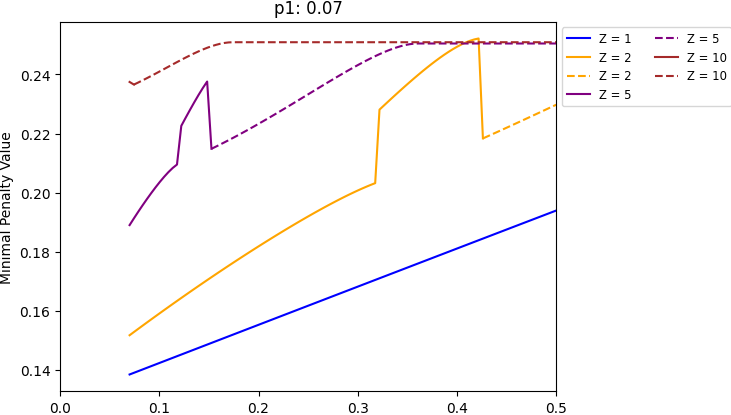
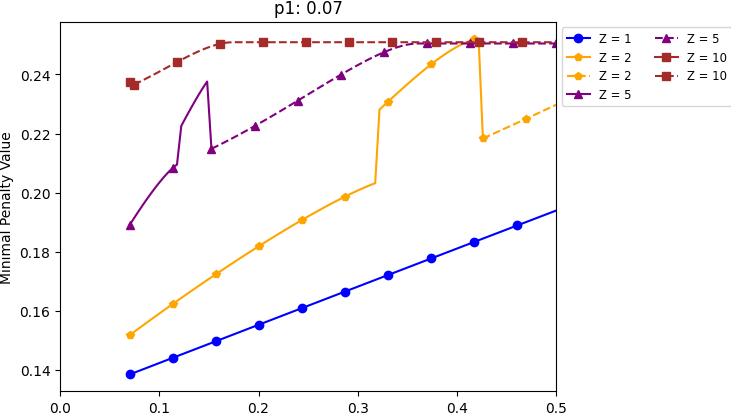
added markers

diff --git a/problem3.py b/problem3.py
@@ -1,3 +1,4 @@
+import matplotlib
 import numpy as np
 from scipy.optimize import minimize, Bounds, LinearConstraint
 import matplotlib.pyplot as plt
@@ -77,6 +78,7 @@ x_values = np.linspace(0.0, 0.5, len(p_list))
 
 #line_styles = ['-', '--', '-.', ':']
 line_colors = ['blue','orange','purple','brown']
+marker_styles = ['o', 'p', '^', 's'] 
 
 #x_values = np.arange(len(p_list)) bunu kullanma equally spaced sebep oluyor
 #file1 = open("results M:"+str(M)+".txt",'w')
@@ -113,13 +115,13 @@ for i, z in enumerate(Z_list):
             break
     
     if my_bool:
-        ax1.plot(x_values[:cutting_idx+1], result_values[:cutting_idx+1], label="Z = " + str(z), color=line_colors[i % len(line_colors)])
-        ax1.plot(x_values[cutting_idx:], result_values[cutting_idx:], linestyle='--', color=line_colors[i % len(line_colors)])
-        ax2.plot(x_values[:cutting_idx+1], avg_aoi_values[:cutting_idx+1], label="Z = " + str(z), color=line_colors[i % len(line_colors)])
-        ax2.plot(x_values[cutting_idx:], avg_aoi_values[cutting_idx:], linestyle='--', color=line_colors[i % len(line_colors)])
+        ax1.plot(x_values[:cutting_idx+1], result_values[:cutting_idx+1], label="Z = " + str(z), color=line_colors[i % len(line_colors)], marker=marker_styles[i % len(marker_styles)], markevery=1)
+        ax1.plot(x_values[cutting_idx:], result_values[cutting_idx:], linestyle='--', color=line_colors[i % len(line_colors)], marker=marker_styles[i % len(marker_styles)], markevery=1)
+        ax2.plot(x_values[:cutting_idx+1], avg_aoi_values[:cutting_idx+1], label="Z = " + str(z), color=line_colors[i % len(line_colors)], marker=marker_styles[i % len(marker_styles)], markevery=1)
+        ax2.plot(x_values[cutting_idx:], avg_aoi_values[cutting_idx:], linestyle='--', color=line_colors[i % len(line_colors)], marker=marker_styles[i % len(marker_styles)], markevery=1)
     else:
-        ax1.plot(x_values, result_values, label="Z = " + str(z), color=line_colors[i % len(line_colors)])
-        ax2.plot(x_values, avg_aoi_values, label="Z = " + str(z), color=line_colors[i % len(line_colors)])
+        ax1.plot(x_values, result_values, label="Z = " + str(z), color=line_colors[i % len(line_colors)], marker=marker_styles[i % len(marker_styles)], markevery=1)
+        ax2.plot(x_values, avg_aoi_values, label="Z = " + str(z), color=line_colors[i % len(line_colors)], marker=marker_styles[i % len(marker_styles)], markevery=1)
     #ax3.plot(x_values, interval_values, label="Z = " + str(z), color=line_colors[i % len(line_colors)])
     # if we want to plot whole graphs just comment the last part from print and use last 3 line
 
@@ -154,6 +156,10 @@ ax3.set_title("Graph of Number of Valid Intervals")
  """
 plt.tight_layout()
 plt.show()
+
+fig1.savefig(f"outputs/plots/penalty_updates_{M}.png", bbox_inches='tight', pad_inches=0)
+fig2.savefig(f"outputs/plots/aoi_updates_{M}.png", bbox_inches='tight', pad_inches=0)
+matplotlib.pyplot.close()
 
 
 # fun: The optimal value of the objective function obtained after the optimization process

diff --git a/diff_p.py b/diff_p.py
@@ -89,7 +89,7 @@ for p1 in p1_list:
 
     #line_styles = ['-', '--', '-.', ':']
     line_colors = ['blue','orange','purple','brown']
-
+    marker_styles = ['o', 'p', '^', 's'] 
 
     for i, z in enumerate(Z_list):
 
@@ -159,17 +159,17 @@ for p1 in p1_list:
         #colors = [color_translations[m] for m in markers]
         #markers = [marker_translations[m] for m in markers]
         if cut_bool:
-            ax1.plot(x_values, result_values, label="Z = " + str(z), color=line_colors[i % len(line_colors)])
-            ax2.plot(x_values, avg_aoi_values, label="Z = " + str(z), color=line_colors[i % len(line_colors)])
+            ax1.plot(x_values, result_values, label="Z = " + str(z), color=line_colors[i % len(line_colors)], marker=marker_styles[i % len(marker_styles)], markevery=10)
+            ax2.plot(x_values, avg_aoi_values, label="Z = " + str(z), color=line_colors[i % len(line_colors)], marker=marker_styles[i % len(marker_styles)], markevery=10)
         else:
-            ax1.plot(x_values[:cut_idx+1], result_values[:cut_idx+1], label="Z = " + str(z), color=line_colors[i % len(line_colors)])
-            ax1.plot(x_values[cut_idx:], result_values[cut_idx:], linestyle='--', label="Z = " + str(z), color=line_colors[i % len(line_colors)])
+            ax1.plot(x_values[:cut_idx+1], result_values[:cut_idx+1], label="Z = " + str(z), color=line_colors[i % len(line_colors)], marker=marker_styles[i % len(marker_styles)], markevery=10)
+            ax1.plot(x_values[cut_idx:], result_values[cut_idx:], linestyle='--', label="Z = " + str(z), color=line_colors[i % len(line_colors)], marker=marker_styles[i % len(marker_styles)], markevery=10)
             # plot markers
             """ for x, y, m, c in zip(x_values, result_values, markers, colors):
                 ax1.plot(x, y, marker=m, fillstyle='none', color=c) """
 
-            ax2.plot(x_values[:cut_idx+1], avg_aoi_values[:cut_idx+1], label="Z = " + str(z), color=line_colors[i % len(line_colors)])
-            ax2.plot(x_values[cut_idx:], avg_aoi_values[cut_idx:], linestyle='--', label="Z = " + str(z), color=line_colors[i % len(line_colors)])
+            ax2.plot(x_values[:cut_idx+1], avg_aoi_values[:cut_idx+1], label="Z = " + str(z), color=line_colors[i % len(line_colors)], marker=marker_styles[i % len(marker_styles)], markevery=10)
+            ax2.plot(x_values[cut_idx:], avg_aoi_values[cut_idx:], linestyle='--', label="Z = " + str(z), color=line_colors[i % len(line_colors)], marker=marker_styles[i % len(marker_styles)], markevery=10)
 
     # Remember to close the file when you're done writing to it
     file1.close()
